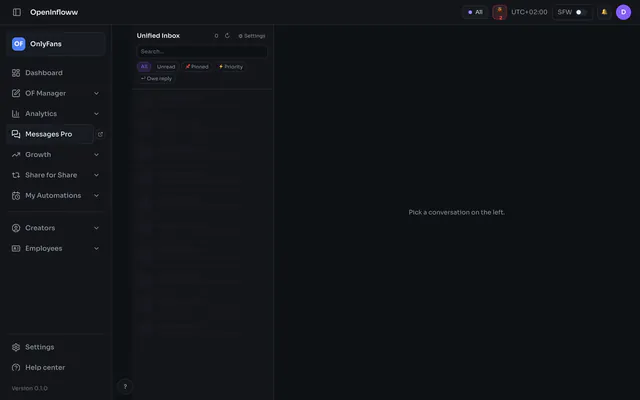
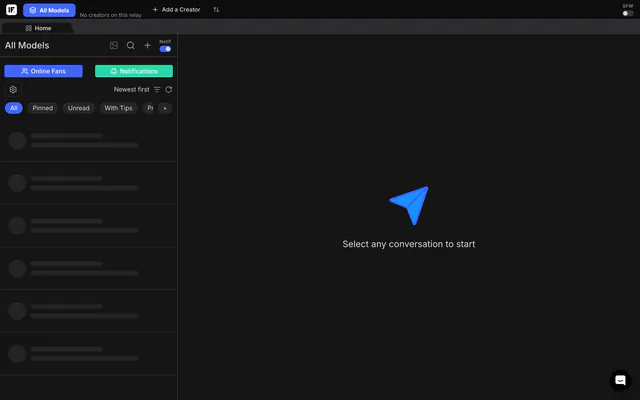
docs(web): landing and download shots show the current app
The five product shots (10 WebPs) still showed the old purple OpenInfloww UI.
Recaptured from a production build of the app against an empty database with
one new owner, no creator connected: the hero composite, Messages Pro phone
list, Analytics dashboard, Auto Post, and the /download/ desktop shell. Alt
texts and img/README.md follow the new shots. web/README.md says how
inflowwww.com is actually served (static files on the app's server); GitHub
Pages is the optional path.

diff --git a/web/public/img/README.md b/web/public/img/README.md
@@ -1,36 +1,32 @@
 # Product shots
 
-Web-ready WebP versions of the real app screenshots in `docs/screenshots/`.
-Encoded with `cwebp -q 80 -m 6 -sharp_yuv`, resized with
-ImageMagick Lanczos. All shots use the dark theme and a disconnected demo
-account, so revenue figures read `$0.00`.
+Web-ready WebP screenshots of the real app, captured 2026-10-21 with headless
+Chromium (Playwright, device scale 2) from a production build (`next build` +
+`next start`) of the deployed public repo, against a fresh relay with an empty
+database and one newly registered owner ("studio"), no creator connected. So
+every figure reads `$0.00`, the free-trial banner shows, and Messages Pro has
+no chats (its list shows the loading rows). Encoded with
+`cwebp -q 80 -m 6 -sharp_yuv`, resized with ImageMagick Lanczos. The PNGs in
+`docs/screenshots/` are the older captures and are not the source of these.
 
 ## Files
 
-| File | Pixels | Bytes | Shows | Source | Suggested alt |
+| File | Pixels | Bytes | Shows | Capture | Suggested alt |
 |---|---|---|---|---|---|
-| `app-dashboard.webp` | 1280x800 | 32,050 | Dashboard: 30-day revenue chart, Creator Reports earnings summary (subscriptions, posts, messages, tips, referrals, streams), Analytics menu open | `app-dashboard.png` | Inflowwww dashboard with the revenue chart and earnings summary |
-| `app-dashboard-640.webp` | 640x400 | 12,182 | Same, half size | `app-dashboard.png` | (same as above) |
-| `app-auto-post.webp` | 1280x800 | 23,538 | My Automations > Auto Post: saved auto posts card, "+ New auto post", empty state | `app-auto-post.png` | Auto Post screen for scheduling recurring posts |
-| `app-auto-post-640.webp` | 640x400 | 9,154 | Same, half size | `app-auto-post.png` | (same as above) |
-| `desktop-shell.webp` | 1280x800 | 15,648 | Desktop app shell (1440x900 @2x source) on Messages Pro, Creators and Employees in the sidebar | `desktop-shell.png` (2880x1800) | Inflowwww desktop app showing the Messages Pro inbox |
-| `desktop-shell-640.webp` | 640x400 | 5,744 | Same, half size | `desktop-shell.png` | (same as above) |
-| `phone-dashboard.webp` | 390x844 | 15,166 | Phone dashboard: revenue card, 7d/30d/90d toggle, Creator Reports filters, earnings summary | `phone-dashboard.png` | Inflowwww dashboard on a phone |
-| `phone-dashboard-780.webp` | 780x1688 | 34,366 | Same, 2x | `phone-dashboard.png` | (same as above) |
-| `phone-messages-pro-list.webp` | 390x844 | 12,814 | Phone Messages Pro chat list: 5 demo fan chats with unread badges and creator tags | `phone-messages-pro-list.png` | Messages Pro chat list on a phone |
-| `phone-messages-pro-list-780.webp` | 780x1688 | 28,722 | Same, 2x | `phone-messages-pro-list.png` | (same as above) |
+| `app-dashboard.webp` | 1280x800 | 36,190 | Dashboard: period tabs, Creator earnings overview (subscriptions, posts, messages, tips, referrals, streams), My shifts, clocked-in employees | 1280x800 viewport @2x | Inflowwww dashboard with the creator earnings overview |
+| `app-dashboard-640.webp` | 640x400 | 14,380 | Same, half size | same | (same as above) |
+| `app-auto-post.webp` | 1280x800 | 21,820 | My Automations > Auto Post: "No creators" picker, "+ New auto post", "No creator with a live session" | 1280x800 viewport @2x | Auto Post screen with a New auto post button |
+| `app-auto-post-640.webp` | 640x400 | 8,452 | Same, half size | same | (same as above) |
+| `desktop-shell.webp` | 1280x800 | 13,476 | Messages Pro window: All Models, Add a Creator, Online Fans / Notifications, empty conversation pane | 1440x900 viewport @2x | Inflowwww desktop app showing the Messages Pro inbox |
+| `desktop-shell-640.webp` | 640x400 | 5,420 | Same, half size | same | (same as above) |
+| `phone-dashboard.webp` | 390x844 | 15,074 | Phone dashboard: free-trial banner, period tabs, Creator earnings overview | 390x844 viewport @2x | Inflowwww dashboard on a phone |
+| `phone-dashboard-780.webp` | 780x1688 | 34,642 | Same, 2x | same | (same as above) |
+| `phone-messages-pro-list.webp` | 390x844 | 7,784 | Phone Messages Pro chat list, no chats yet | 390x844 viewport @2x | Messages Pro chat list on a phone |
+| `phone-messages-pro-list-780.webp` | 780x1688 | 16,372 | Same, 2x | same | (same as above) |
 
 ## Privacy check
 
-No real usernames, emails, tokens or earnings are visible. The phone Messages
-Pro shots show fan names (Jake M., Marcus, Ryan, Danny K, Tom, handle
-`@jakem`) and creator "Luna": these are demo data (the desktop Messages Pro
-shots from the same app build show an empty inbox, and "Luna" is the
-placeholder creator used across the tests), so nothing was blurred.
-
-Edited: `desktop-shell.webp` had the Next.js dev-mode "N" badge over the
-sidebar's version label; it was painted out and "Version 0.1.0" restored from
-`app-messages-pro.png`. The source PNG is unchanged.
+A fresh install: no creator, fan, email, token or earnings data exists to show.
 
 ## Usage
 
@@ -42,7 +38,7 @@ Desktop shot (pick `sizes` to match the layout column):
   srcset="/img/app-dashboard-640.webp 640w, /img/app-dashboard.webp 1280w"
   sizes="(min-width: 1280px) 1280px, 100vw"
   width="1280" height="800"
-  alt="Inflowwww dashboard with the revenue chart and earnings summary"
+  alt="Inflowwww dashboard with the creator earnings overview"
   loading="lazy" decoding="async">
 ```
 

diff --git a/web/README.md b/web/README.md
@@ -61,7 +61,11 @@ Markdown body. End with one "> **The pitch.** ..." box.
 
 Case studies work the same way in `web/src/case-studies/`, and they can also take an optional `stats` list of `{label, value}`. The voice and truth rules are in `docs/parody-voice.md`. Quotes from Infloww must come from `docs/infloww-landing-snapshot.md` or `docs/infloww-site-inventory.md`, with the capture date.
 
-## Deploy (GitHub Pages)
+## Deploy
+
+The live site, https://inflowwww.com, is not served by GitHub Pages. It is `web/dist`, built on the app's own server from a checkout of the public repo and served as static files by an nginx container behind the server's Traefik (app.inflowwww.com is the app on the same host). The build sets `url` and `appUrl` in `src/_data/site.json` to the deployment's site and app URLs in a throwaway copy (the tracked file is left alone), then runs `pnpm build`; nginx serves the new files as soon as they are written, with no restart.
+
+### GitHub Pages (optional)
 
 `.github/workflows/site.yml` builds with `PATH_PREFIX=/openinflowwww/` and deploys on every push to `main` that touches `web/`. It can also be run by hand. After the build it fails if any root-relative `href`, `src` or `srcset` in `web/dist` lacks the prefix. You only need to change one setting, once: **Settings > Pages > Build and deployment > Source = "GitHub Actions"**. The site is then served at https://your-org.github.io/openinflowwww/.
 
